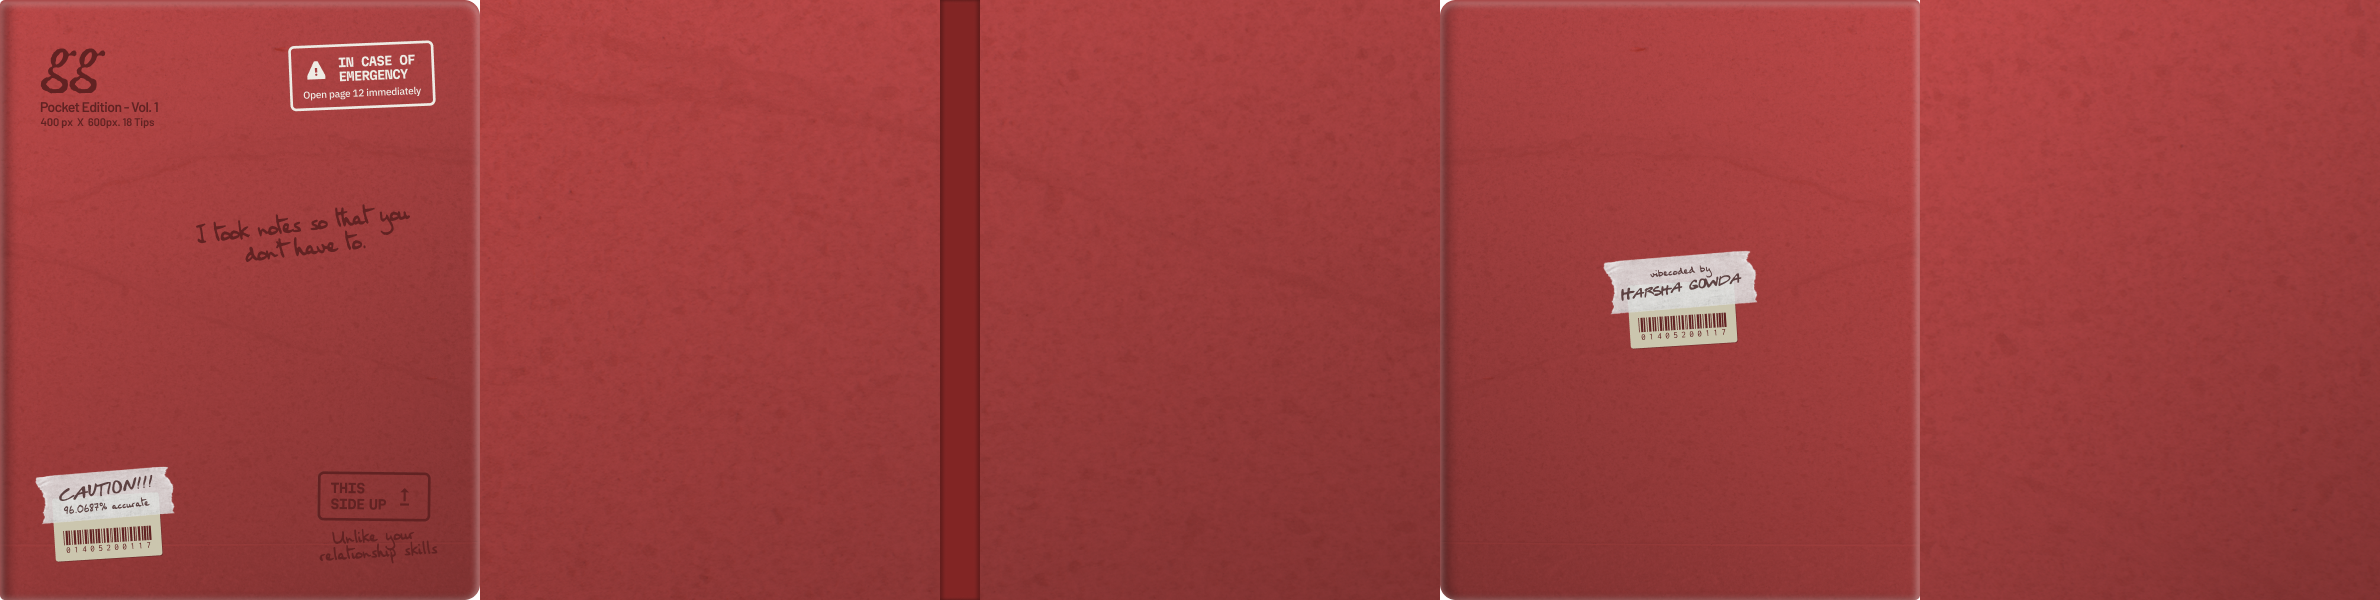
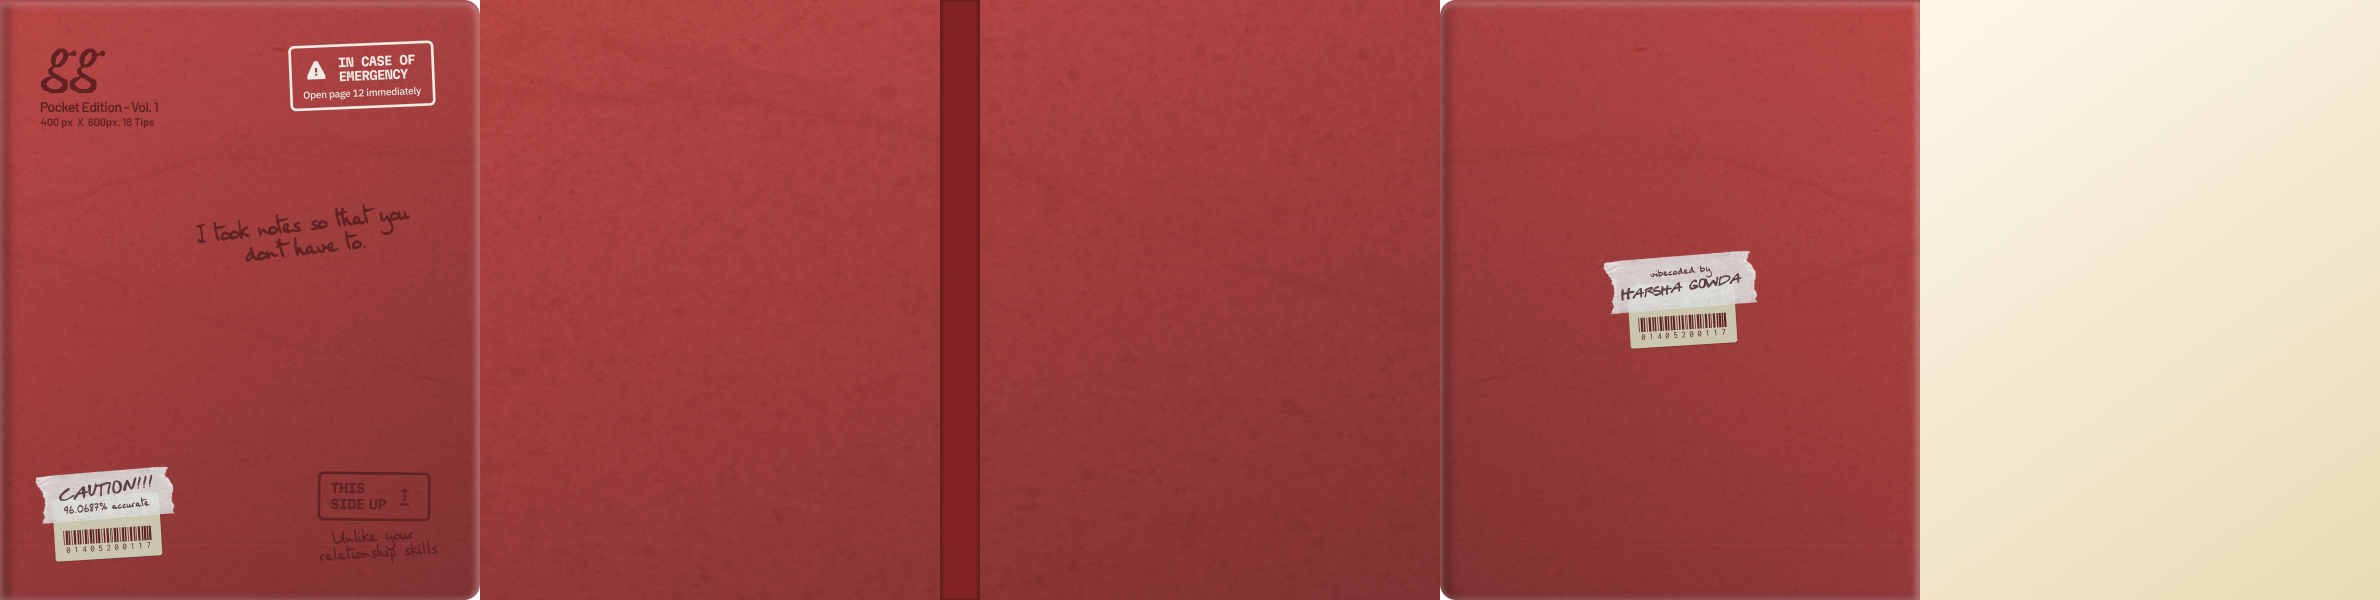
book component working fine 62%

Changed region(s): [[0.8084, 0.0, 1.0, 1.0]]

diff --git a/samples/steve-jobs/css/steve-jobs.css b/samples/steve-jobs/css/steve-jobs.css
@@ -173,8 +173,8 @@ body, ul, table, form{
 .sj-book .p3, 
 .sj-book .p111, 
 .sj-book .p112{
-	background: linear-gradient(135deg, #D85354 0%, #943A3A 100%);
-	background-image:url(../pics/book-covers.jpg) !important;
+	/*background: linear-gradient(135deg, #D85354 0%, #943A3A 100%);*/
+	background-image:url(../pics/book-covers.png) !important;
 }
 
 .sj-book .p1{
@@ -384,7 +384,7 @@ body, ul, table, form{
 .sj-book .hard,
 .sj-book .hard.front-side,
 .sj-book .hard.back-side {
-    border-radius: 20px; /* Adjust px value for more/less curve */
+    border-radius: 18px; /* Adjust px value for more/less curve */
     overflow: hidden;    /* Ensures content stays within the curve */
   }
 
@@ -396,8 +396,9 @@ body, ul, table, form{
   }
 
 .sj-book .page {
-    border-radius: 12px;
+    border-radius: 3px;
     overflow: hidden;
+	box-shadow: none !important;
 }
 
 .sj-book .side {
